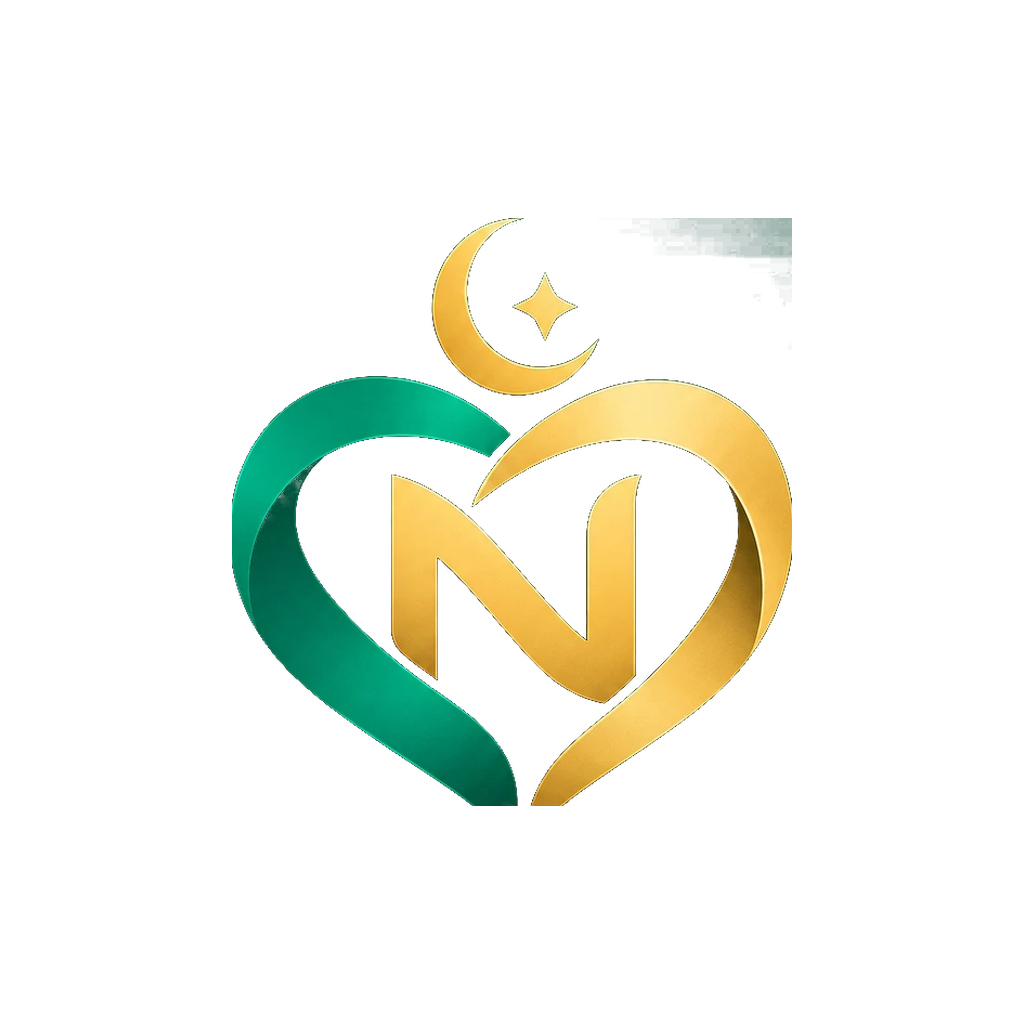
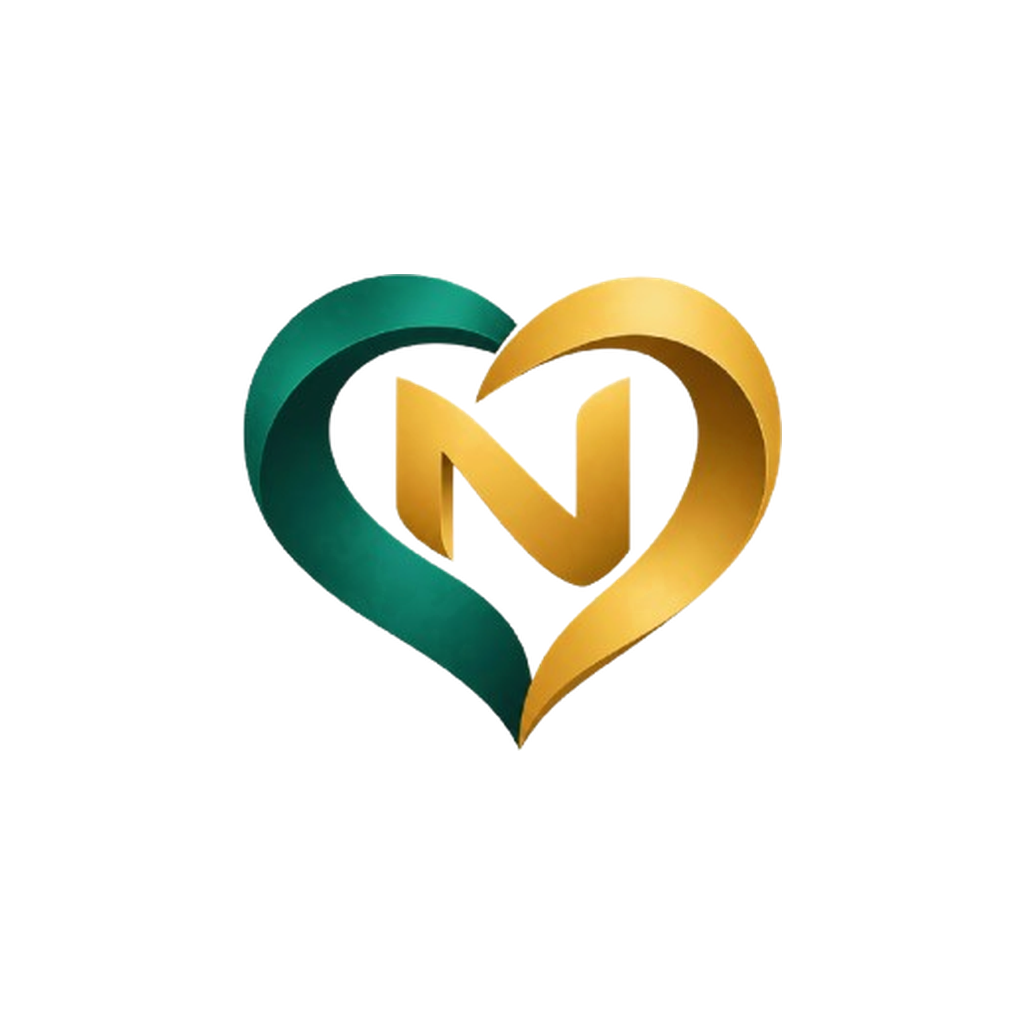
brand: rebuild the identity from the supplied PNG artwork
Replaces the previous source with the newly supplied 500x500 alpha-native
PNG and regenerates every asset from it.

- The icon carries the SYMBOL ALONE. The supplied wordmark is emerald and
  gold; on the dark icon ground the emerald word disappears, and a wordmark
  is not legible at launcher size in any case. The full lockup stays a
  brand asset for store listings.
- The icon ground drops to near-black green (#022018 -> #064E3A) and
  app.json follows at #03291F. One half of the heart is emerald: on a
  mid-emerald ground that half sinks into the background and the mark reads
  as a lone gold swoosh.
- Logo.tsx: SYMBOL_ASPECT 512/538 -> 512/452. The new mark is wider than it
  is tall, so the old constant stretched it. Verified in-browser: the image
  lays out at 99.7x88, ratio 1.133, exactly the natural ratio.
- The build script now reports the upscale factor for every asset and warns
  past 1.5x.

Resolution, stated plainly: the source is 500x500 with a 274px symbol, so
the 1024 store icon is a 2.3x upscale and is soft at full size. In-app
rendering is unaffected (512 covers 88dp at 3x density). A genuinely sharp
store icon needs ~600px in the source; true 4K needs vector or ~2000px.

Verified: format, lint, typecheck clean; 143 tests pass; welcome screen
checked at 320dp in English (LTR) and Urdu (RTL).

Changed region(s): [[0.2188, 0.2188, 0.7812, 0.8125], [0.6562, 0.1875, 0.7812, 0.25]]

diff --git a/apps/mobile/src/components/Logo.tsx b/apps/mobile/src/components/Logo.tsx
@@ -8,8 +8,7 @@ import { spacing } from '../theme/tokens';
  * The NikahMate mark.
  *
  * The symbol — a heart formed from two interlocking ribbons, one emerald and
- * one gold, beneath a crescent and star, with the N monogram held inside — is
- * the supplied brand artwork. It ships as a raster because that is what it is:
+ * one gold, with the N monogram held inside — is the supplied brand artwork. It ships as a raster because that is what it is:
  * `docs/brand/source/` holds the original, and
  * `scripts/build-brand-assets.py` derives every asset from it.
  *
@@ -18,8 +17,8 @@ import { spacing } from '../theme/tokens';
  * (Nikah in the neutral, Mate in gold) in one place instead of in an export.
  */
 
-/** The symbol is slightly taller than it is wide; preserve that ratio. */
-const SYMBOL_ASPECT = 512 / 538;
+/** The symbol is wider than it is tall; preserve that ratio. */
+const SYMBOL_ASPECT = 512 / 452;
 
 export type LogoTone = 'light' | 'dark' | 'mono';
 export type LogoVariant = 'symbol' | 'horizontal' | 'stacked';

diff --git a/apps/mobile/scripts/build-brand-assets.py b/apps/mobile/scripts/build-brand-assets.py
@@ -1,31 +1,29 @@
 """
 Derives every NikahMate brand asset from the supplied source artwork.
 
-The source is a single raster lockup: the heart-and-crescent symbol above the
-NikahMate wordmark, on a dark emerald panel. That one image cannot be used
-directly for all the slots a mobile app needs, so this script separates it into
-its parts and rebuilds each asset properly:
+The source is one lockup on transparency: the heart symbol above the NikahMate
+wordmark. A mobile app needs that split into several shapes, so this script
+separates it and rebuilds each asset:
 
-  * The symbol and the wordmark are cut out of the source onto transparency.
-    The source panel and the field behind it are nearly the same colour, so the
-    cutout keys on distance from a per-row background estimate sampled from a
-    clean left margin rather than on luminance alone.
+  * The app icon is composited onto a deep emerald ground. The supplied
+    wordmark is emerald and gold, which would disappear on that ground, and a
+    wordmark is not legible at launcher size in any case — so the icon carries
+    the SYMBOL ALONE. The full lockup stays a brand asset for store listings
+    and marketing, where it is seen large and on light.
 
-  * The app icon is then recomposited onto a ground this script controls. The
-    source has rounded corners and a drop shadow baked in; iOS and Android
-    apply their own mask, and a pre-rounded icon inside that mask produces
-    double corners and a shadow fringe. Rebuilding on a full-bleed ground
-    avoids both.
+  * The Android adaptive foreground sits inside the mask safe zone. The
+    launcher crops it to a circle or squircle; anything near the edge is lost.
 
-  * The Android adaptive foreground and the splash use the symbol ALONE. The
-    launcher crops the foreground to a circle or squircle, and a wordmark does
-    not survive that. It would not be legible at launcher size in any case.
+  * The in-app wordmark is live text in the Logo component, not an image, so it
+    stays crisp and takes the theme.
 
-Run after changing the source artwork:
+Resolution: the script reports the upscale factor for every asset and warns
+when one exceeds 1.5x. Upscaling cannot invent detail — a soft store icon means
+the source needs to be exported larger, not resampled harder.
 
     python apps/mobile/scripts/build-brand-assets.py
 
-Requires Pillow (a developer tool only — it is not an app dependency).
+Requires Pillow (a developer tool only — not an app dependency).
 """
 
 from __future__ import annotations
@@ -33,37 +31,39 @@ from __future__ import annotations
 import sys
 from pathlib import Path
 
-import numpy as np
 from PIL import Image
 
 HERE = Path(__file__).resolve().parent
 APP_ASSETS = HERE.parent / "assets"
 BRAND = HERE.parent.parent.parent / "docs" / "brand"
-SOURCE = BRAND / "source" / "nikahmate-logo-source.webp"
+REPO = HERE.parent.parent.parent
+SOURCE = BRAND / "source" / "nikahmate-logo-source.png"
 
-# Brand ground. Matches palette.ts: emerald 900 -> 700, a two-stop diagonal.
-GROUND_FROM = (3, 41, 31)
-GROUND_TO = (6, 95, 70)
+# Brand ground for the icon: emerald 900 -> 800, a two-stop diagonal.
+#
+# Deliberately deeper than the UI's brand gradient. One half of the heart is
+# emerald, and on a mid-emerald ground that half sinks into the background and
+# the mark reads as a gold swoosh. Keeping the ground near-black green holds
+# both halves.
+GROUND_FROM = (2, 32, 24)
+GROUND_TO = (6, 78, 58)
+WARM_WHITE = (250, 250, 247, 255)
 
-# Regions of the source, found by analysing it (see the module docstring).
-SYMBOL_BOX = (367, 190, 884, 733)
-WORDMARK_BOX = (261, 806, 1000, 918)
-# A vertical strip of clean panel used to model the background per row.
-BG_STRIP = (100, 250)
+# Regions of the source. The artwork already carries an alpha channel, so these
+# are simply the two bands of content with the gap between them.
+SYMBOL_BOX = (112, 108, 386, 350)
+WORDMARK_BOX = (47, 363, 458, 426)
+
+#: Flag any asset scaled beyond this. Past ~1.5x, resampling shows.
+UPSCALE_WARN = 1.5
+
+_warnings: list[str] = []
 
 
-def load_source() -> np.ndarray:
+def load_source() -> Image.Image:
     if not SOURCE.exists():
         sys.exit(f"Source artwork not found: {SOURCE}")
-    return np.asarray(Image.open(SOURCE).convert("RGB")).astype(float)
-
-
-def cut_out(rgb: np.ndarray, lo: float = 30.0, hi: float = 70.0) -> Image.Image:
-    """Separates artwork from the panel by distance from a per-row background."""
-    background = np.median(rgb[:, BG_STRIP[0] : BG_STRIP[1], :], axis=1)
-    distance = np.linalg.norm(rgb - background[:, None, :], axis=2)
-    alpha = np.clip((distance - lo) / (hi - lo), 0.0, 1.0)
-    return Image.fromarray(np.dstack([rgb, alpha * 255]).astype(np.uint8), "RGBA")
+    return Image.open(SOURCE).convert("RGBA")
 
 
 def trim(img: Image.Image) -> Image.Image:
@@ -73,19 +73,25 @@ def trim(img: Image.Image) -> Image.Image:
 
 def ground(size: int) -> Image.Image:
     """A full-bleed diagonal ground. Two stops, one hue — no glow, no vignette."""
+    import numpy as np
+
     x = np.linspace(0.0, 1.0, size)
-    t = np.clip((x[None, :] + x[:, None]) / 2.0, 0.0, 1.0)[..., None]
+    t = ((x[None, :] + x[:, None]) / 2.0)[..., None]
     rgb = np.array(GROUND_FROM) + (np.array(GROUND_TO) - np.array(GROUND_FROM)) * t
-    return Image.fromarray(np.dstack([rgb, np.full((size, size), 255)]).astype(np.uint8), "RGBA")
+    return Image.fromarray(
+        np.dstack([rgb, np.full((size, size), 255)]).astype(np.uint8), "RGBA"
+    )
 
 
-def fit(img: Image.Image, width: int) -> Image.Image:
-    height = max(1, round(img.height * width / img.width))
+def fit(img: Image.Image, width: int, label: str) -> Image.Image:
+    factor = width / img.width
+    if factor > UPSCALE_WARN:
+        _warnings.append(f"{label}: symbol upscaled {factor:.1f}x (source {img.width}px)")
+    height = max(1, round(img.height * factor))
     return img.resize((width, height), Image.LANCZOS)
 
 
 def place(canvas: Image.Image, art: Image.Image, cx: float, cy: float) -> None:
-    """Pastes `art` centred on a fractional position of the canvas."""
     x = round(canvas.width * cx - art.width / 2)
     y = round(canvas.height * cy - art.height / 2)
     canvas.alpha_composite(art, (x, y))
@@ -95,54 +101,61 @@ def save(img: Image.Image, path: Path) -> None:
     path.parent.mkdir(parents=True, exist_ok=True)
     img.save(path, optimize=True)
     kb = path.stat().st_size / 1024
-    rel = path.relative_to(HERE.parent.parent.parent)
-    print(f"{str(rel):44s} {img.width}x{img.height}  {kb:.1f}KB")
+    print(f"{str(path.relative_to(REPO)):44s} {img.width}x{img.height}  {kb:.1f}KB")
 
 
 def main() -> None:
-    rgb = load_source()
-    cut = cut_out(rgb)
-    symbol = trim(cut.crop(SYMBOL_BOX))
-    wordmark = trim(cut.crop(WORDMARK_BOX))
+    src = load_source()
+    symbol = trim(src.crop(SYMBOL_BOX))
+    wordmark = trim(src.crop(WORDMARK_BOX))
+    print(f"source {src.width}x{src.height} — symbol {symbol.width}x{symbol.height}\n")
 
     # --- app assets --------------------------------------------------------
 
-    # Store / launcher icon: full bleed, the complete lockup, no baked corners.
     icon = ground(1024)
-    place(icon, fit(symbol, 470), 0.5, 0.40)
-    place(icon, fit(wordmark, 660), 0.5, 0.80)
+    place(icon, fit(symbol, 620, "icon.png"), 0.5, 0.5)
     save(icon, APP_ASSETS / "icon.png")
 
-    # Android adaptive foreground: symbol only, inside the mask safe zone. The
-    # launcher crops this; anything beyond ~66% of the canvas can be cut.
+    # Inside the Android mask safe zone: the launcher crops this.
     adaptive = Image.new("RGBA", (1024, 1024), (0, 0, 0, 0))
-    place(adaptive, fit(symbol, 560), 0.5, 0.5)
+    place(adaptive, fit(symbol, 540, "adaptive-icon.png"), 0.5, 0.5)
     save(adaptive, APP_ASSETS / "adaptive-icon.png")
 
     splash = Image.new("RGBA", (512, 512), (0, 0, 0, 0))
-    place(splash, fit(symbol, 400), 0.5, 0.5)
+    place(splash, fit(symbol, 400, "splash-icon.png"), 0.5, 0.5)
     save(splash, APP_ASSETS / "splash-icon.png")
 
     favicon = ground(64)
-    place(favicon, fit(symbol, 46), 0.5, 0.5)
+    place(favicon, fit(symbol, 44, "favicon.png"), 0.5, 0.5)
     save(favicon, APP_ASSETS / "favicon.png")
 
-    # Used by the in-app <Logo> component.
-    save(fit(symbol, 512), APP_ASSETS / "logo-symbol.png")
+    # Used by the in-app <Logo>. 512 covers an 88dp render at 3x density with
+    # room to spare, so the app never shows an upscaled mark.
+    save(fit(symbol, 512, "logo-symbol.png"), APP_ASSETS / "logo-symbol.png")
 
     # --- brand assets (documentation and marketing; never bundled) ---------
 
     save(symbol, BRAND / "symbol.png")
     save(wordmark, BRAND / "wordmark.png")
+    save(trim(src), BRAND / "lockup.png")
 
-    lockup = ground(1200)
-    place(lockup, fit(symbol, 520), 0.5, 0.38)
-    place(lockup, fit(wordmark, 760), 0.5, 0.74)
-    save(lockup, BRAND / "lockup-dark.png")
-
-    on_light = Image.new("RGBA", (800, 800), (250, 250, 247, 255))
-    place(on_light, fit(symbol, 520), 0.5, 0.5)
+    on_light = Image.new("RGBA", (800, 800), WARM_WHITE)
+    place(on_light, fit(symbol, 480, "symbol-on-light.png"), 0.5, 0.5)
     save(on_light, BRAND / "symbol-on-light.png")
+
+    on_dark = ground(800)
+    place(on_dark, fit(symbol, 480, "symbol-on-dark.png"), 0.5, 0.5)
+    save(on_dark, BRAND / "symbol-on-dark.png")
+
+    if _warnings:
+        print("\nResolution notes:")
+        for w in _warnings:
+            print(f"  ! {w}")
+        print(
+            "  Resampling cannot add detail. For a genuinely sharp 1024 store\n"
+            "  icon the symbol needs to be ~600px in the source; for print or a\n"
+            "  4K render it needs to be vector (SVG/PDF) or ~2000px."
+        )
 
 
 if __name__ == "__main__":

diff --git a/docs/BRAND.md b/docs/BRAND.md
@@ -7,47 +7,66 @@ website, the admin panel and every marketing surface.
 
 ## The mark
 
-![NikahMate lockup](brand/lockup-dark.png)
+![NikahMate lockup](brand/lockup.png)
 
-A heart formed from two interlocking ribbons — one emerald, one gold — beneath a
-crescent and star, with the **N** monogram held inside. Two strands, distinct
-and complete on their own, becoming one form.
+A heart formed from two interlocking ribbons — one emerald, one gold — with the
+**N** monogram held inside the fold. Two strands, distinct and complete on their
+own, becoming one form. Beneath it the wordmark: **Nikah** in emerald, **Mate**
+in gold.
 
 The artwork is supplied, not generated. The original lives at
-[`brand/source/nikahmate-logo-source.webp`](brand/source/) and every asset in
-the app is derived from it by one script, so the identity has a single source of
+[`brand/source/nikahmate-logo-source.png`](brand/source/) and every asset in the
+app is derived from it by one script, so the identity has a single source of
 truth rather than a folder of hand-edited exports.
 
 ---
 
 ## Official versions
 
-| Version                 | File                                                     | Use                                                     |
-| ----------------------- | -------------------------------------------------------- | ------------------------------------------------------- |
-| **Symbol**              | [`brand/symbol.png`](brand/symbol.png)                   | Transparent. The mark alone                             |
-| **Symbol on light**     | [`brand/symbol-on-light.png`](brand/symbol-on-light.png) | Warm-white ground                                       |
-| **Wordmark**            | [`brand/wordmark.png`](brand/wordmark.png)               | Transparent, two-tone                                   |
-| **Full lockup**         | [`brand/lockup-dark.png`](brand/lockup-dark.png)         | Emerald ground. Store listings, marketing               |
-| **App icon**            | `../apps/mobile/assets/icon.png`                         | 1024, full bleed, symbol + wordmark                     |
-| **Adaptive foreground** | `../apps/mobile/assets/adaptive-icon.png`                | Symbol only, transparent, in the Android mask safe zone |
-| **Splash**              | `../apps/mobile/assets/splash-icon.png`                  | Symbol only, transparent                                |
-| **Favicon**             | `../apps/mobile/assets/favicon.png`                      | 64, symbol on emerald                                   |
+| Version                 | File                                                     | Use                                            |
+| ----------------------- | -------------------------------------------------------- | ---------------------------------------------- |
+| **Symbol**              | [`brand/symbol.png`](brand/symbol.png)                   | Transparent. The mark alone                    |
+| **Symbol on light**     | [`brand/symbol-on-light.png`](brand/symbol-on-light.png) | Warm-white ground                              |
+| **Symbol on dark**      | [`brand/symbol-on-dark.png`](brand/symbol-on-dark.png)   | Deep emerald ground                            |
+| **Wordmark**            | [`brand/wordmark.png`](brand/wordmark.png)               | Transparent, two-tone                          |
+| **Full lockup**         | [`brand/lockup.png`](brand/lockup.png)                   | Transparent. Store listings, marketing         |
+| **App icon**            | `../apps/mobile/assets/icon.png`                         | 1024, full bleed, symbol on emerald            |
+| **Adaptive foreground** | `../apps/mobile/assets/adaptive-icon.png`                | Transparent, inside the Android mask safe zone |
+| **Splash**              | `../apps/mobile/assets/splash-icon.png`                  | 512, transparent                               |
+| **Favicon**             | `../apps/mobile/assets/favicon.png`                      | 64, symbol on emerald                          |
 
 ### Three production decisions worth knowing
 
-**The icon is rebuilt, not cropped.** The source has rounded corners and a drop
-shadow baked in. iOS and Android apply their own mask, and a pre-rounded icon
-inside that mask gives double corners and a shadow fringe. The icon is therefore
-recomposited onto a full-bleed ground the script controls.
+**The icon carries the symbol alone.** The supplied wordmark is emerald and
+gold; on the dark icon ground the emerald word would disappear, and a wordmark
+is not legible at launcher size in any case. The full lockup stays for store
+listings and marketing, where it is seen large and on light.
 
-**The adaptive foreground and splash use the symbol alone.** Android crops the
-foreground to a circle or squircle; a wordmark does not survive that, and it
-would not be legible at launcher size regardless. The full lockup stays for the
-store listing, where it is seen large.
+**The icon ground runs near-black green, deeper than the UI gradient.** One half
+of the heart is emerald. On a mid-emerald ground that half sinks into the
+background and the mark reads as a lone gold swoosh. `#022018` → `#064E3A` holds
+both halves.
 
 **The in-app wordmark is live text, not an image** — crisp at any size, takes
 the theme, and the two-tone treatment lives in one component instead of an
 export.
+
+### Resolution
+
+The supplied source is **500 × 500**, and the symbol occupies **274 × 242** of
+it. That is enough for the app and not enough for everything:
+
+| Asset                    | Scale from source | Verdict                               |
+| ------------------------ | ----------------- | ------------------------------------- |
+| `logo-symbol.png` (512)  | 1.9×              | Fine — covers 88dp at 3× density      |
+| `adaptive-icon.png`      | 2.0×              | Acceptable — the launcher draws small |
+| `icon.png` (1024, store) | 2.3×              | **Soft at full size**                 |
+
+The build script prints the factor for every asset and flags anything past 1.5×.
+Resampling cannot invent detail. A genuinely sharp 1024 store icon needs the
+symbol to be **~600px** in the source; print or a true 4K render needs **vector
+(SVG/PDF) or ~2000px**. Re-export the artwork larger, drop it in `brand/source/`
+and rerun the script — no other file changes.
 
 ### Regenerating
 
@@ -77,6 +96,7 @@ body text.**
 
 | Role                    | Token          | Hex       |
 | ----------------------- | -------------- | --------- |
+| Near-black emerald      | `emerald[900]` | `#03291F` |
 | Deep emerald            | `emerald[800]` | `#064E3B` |
 | **Emerald — primary**   | `emerald[600]` | `#047857` |
 | **Gold — accent**       | `gold[500]`    | `#D4AF37` |
@@ -90,11 +110,9 @@ Full ramps: [`apps/mobile/src/theme/palette.ts`](../apps/mobile/src/theme/palett
 `textMuted`, `surfaceSunken` — which is what makes a dark theme a new mapping
 rather than a rewrite.
 
-**The hero gradient runs deeper than the primary one on purpose.** The mark
-contains an emerald ribbon; on a mid-emerald ground that ribbon loses contrast
-and half the heart disappears. Dropping the ground two steps keeps the symbol
-legible. Gold never gradients — flat gold is what keeps the accent from looking
-cheap.
+**The hero gradient runs deeper than the primary one on purpose** — the same
+reason the icon ground does. Gold never gradients; flat gold is what keeps the
+accent from looking cheap.
 
 ---
 
@@ -126,16 +144,16 @@ reads. It has already happened once, in the tab bar.
 
 ## Where the identity appears
 
-| Surface                                  | Mark                                  | Emerald                            | Gold             |
-| ---------------------------------------- | ------------------------------------- | ---------------------------------- | ---------------- |
-| App icon / splash                        | Symbol (+ wordmark on the store icon) | Ground                             | In the mark      |
-| Auth hero                                | Stacked, dark tone                    | Deep gradient ground               | "Mate", monogram |
-| Sign in                                  | —                                     | Method icons, back action          | —                |
-| Tab bar                                  | —                                     | Active tab                         | —                |
-| Discover / Interests / Messages / Family | —                                     | Headings, accents                  | —                |
-| Me                                       | Symbol, light tone                    | Selected language, headings        | In the mark      |
-| Buttons                                  | —                                     | Primary gradient, secondary border | —                |
-| Cards, empty states, loading             | —                                     | Overlines, spinner                 | —                |
+| Surface                                  | Mark               | Emerald                            | Gold             |
+| ---------------------------------------- | ------------------ | ---------------------------------- | ---------------- |
+| App icon / splash                        | Symbol             | Ground                             | In the mark      |
+| Auth hero                                | Stacked, dark tone | Deep gradient ground               | "Mate", monogram |
+| Sign in                                  | —                  | Method icons, back action          | —                |
+| Tab bar                                  | —                  | Active tab                         | —                |
+| Discover / Interests / Messages / Family | —                  | Headings, accents                  | —                |
+| Me                                       | Symbol, light tone | Selected language, headings        | In the mark      |
+| Buttons                                  | —                  | Primary gradient, secondary border | —                |
+| Cards, empty states, loading             | —                  | Overlines, spinner                 | —                |
 
 Emerald carries every action and active state. Gold is held back so that where
 it appears, it means something.
